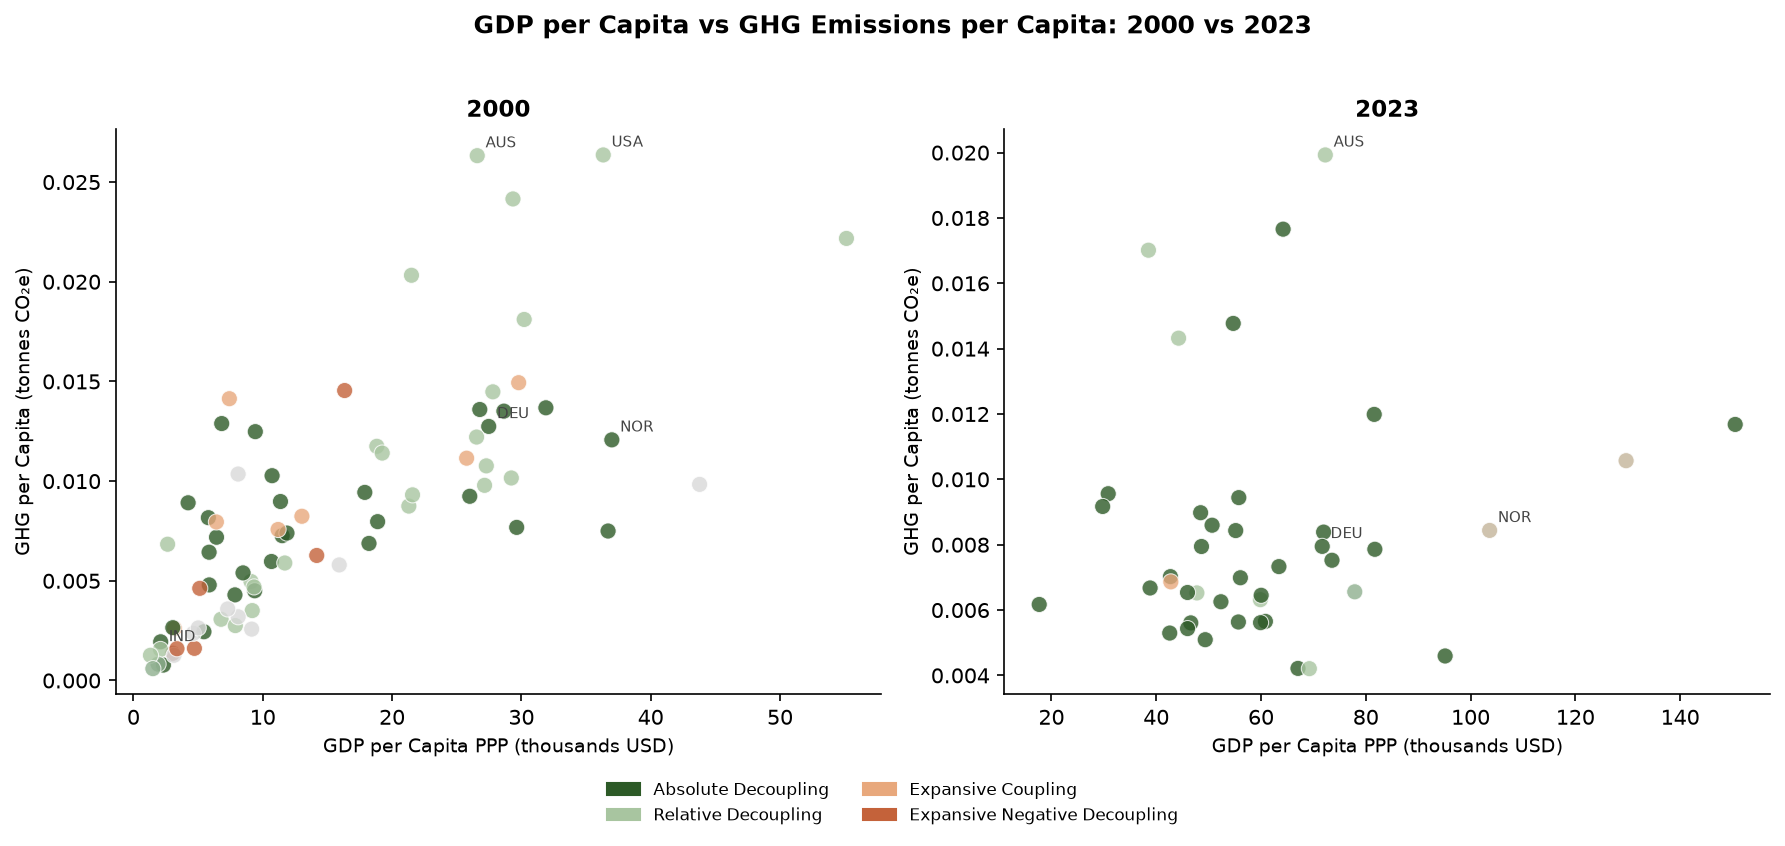
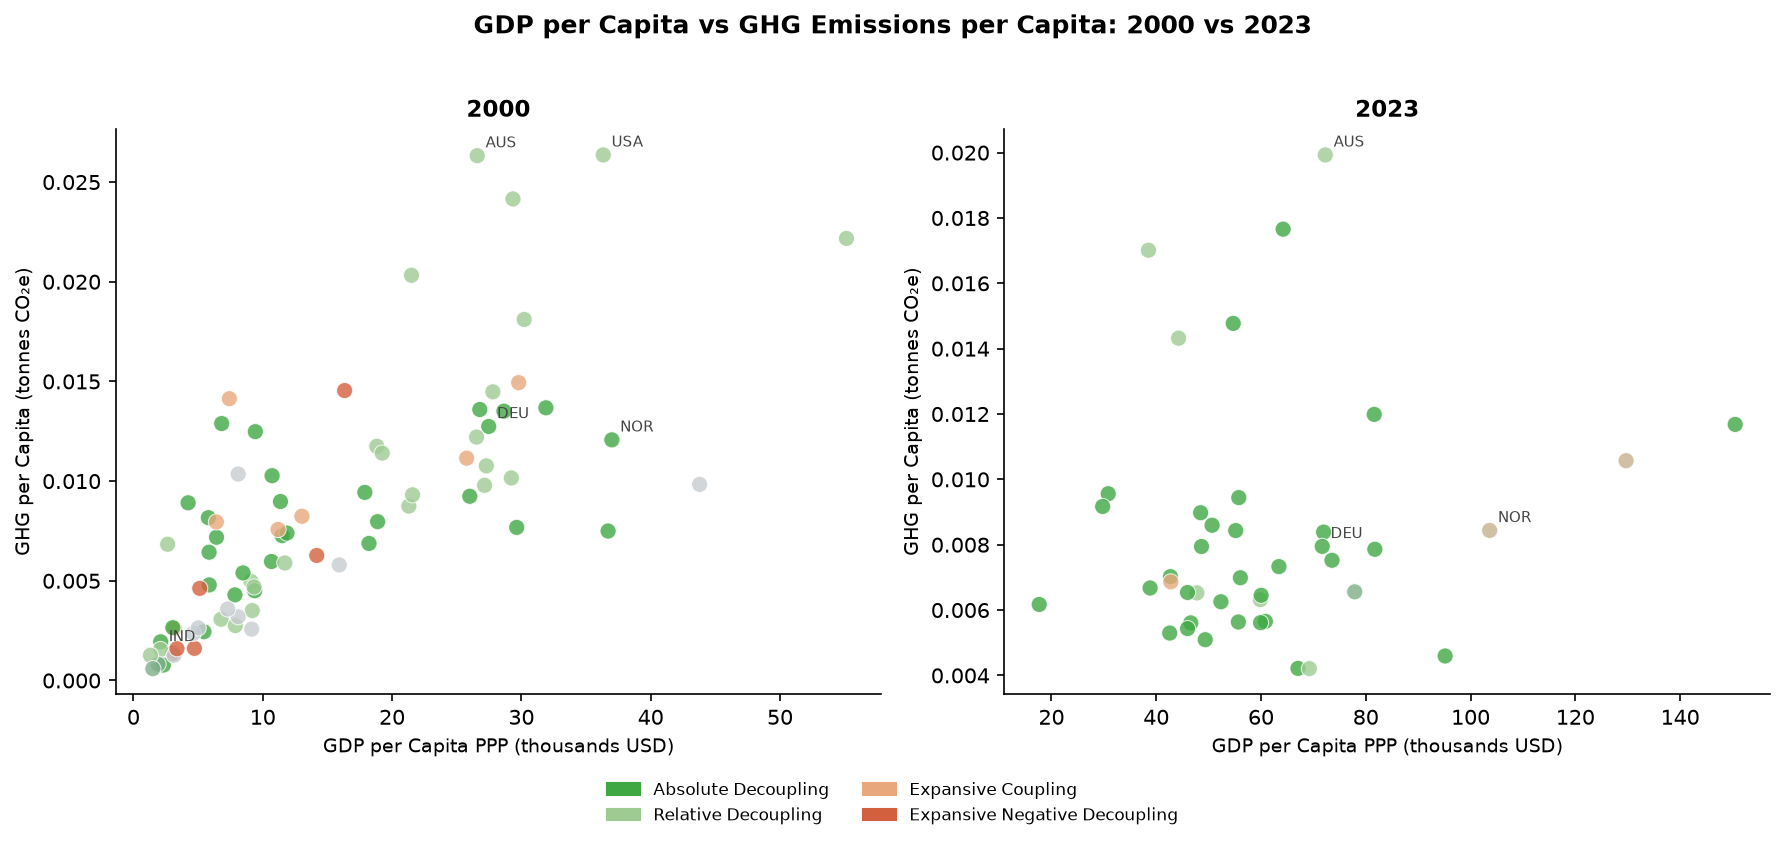
docs: update technical report for v5 pipeline changes and dashboard restructure

diff --git a/reports/eda.py b/reports/eda.py
@@ -23,14 +23,14 @@ df = pd.read_csv(DATA_PATH)
 
 # Color palette matching the dashboard
 TAPIO_COLORS = {
-    "absolute_decoupling":           "#2D5A27",
-    "relative_decoupling":           "#A8C5A0",
+    "absolute_decoupling":           "#3FA843",
+    "relative_decoupling":           "#9ECB92",
     "expansive_coupling":            "#E8A87C",
-    "expansive_negative_decoupling": "#C4623A",
-    "recessive_decoupling":          "#8FAF8F",
-    "recessive_coupling":            "#C4B49A",
-    "strong_negative_decoupling":    "#A07060",
-    "undefined":                     "#D9D9D9",
+    "expansive_negative_decoupling": "#D2603E",
+    "recessive_decoupling":          "#7FAE8A",
+    "recessive_coupling":            "#C7B18F",
+    "strong_negative_decoupling":    "#B0715A",
+    "undefined":                     "#C7CCD0",
 }
 
 TAPIO_LABELS = {